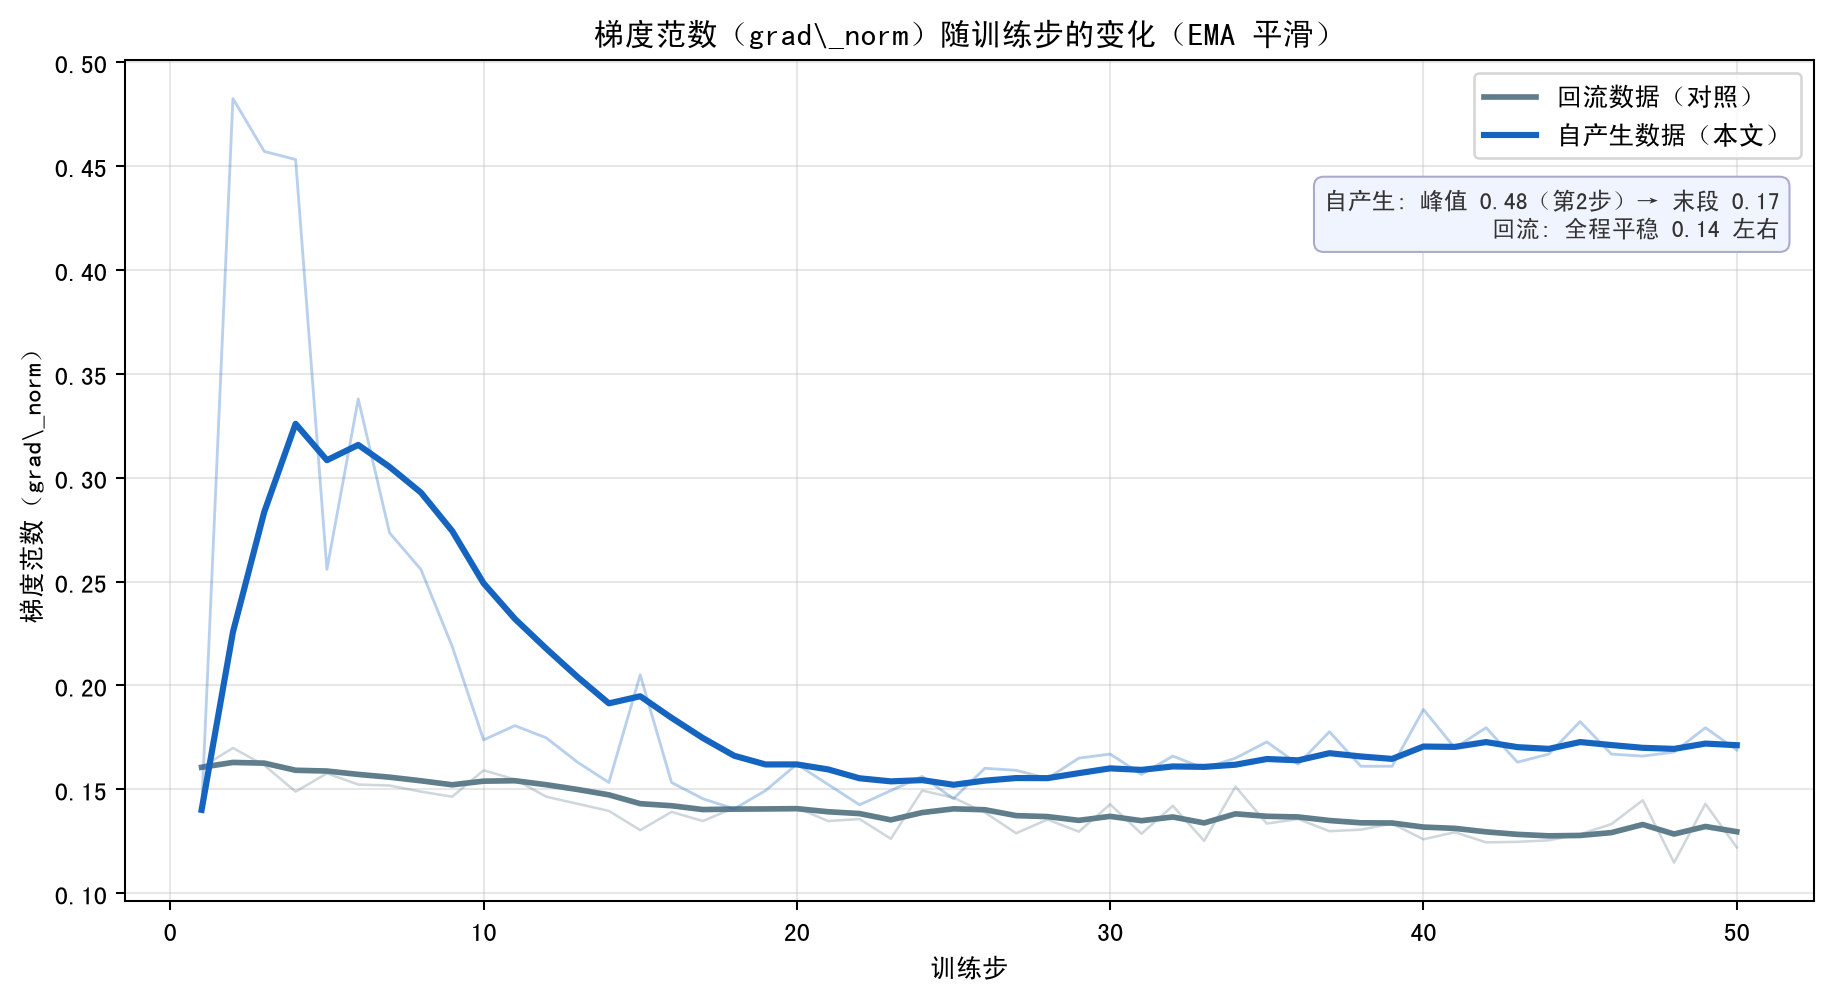
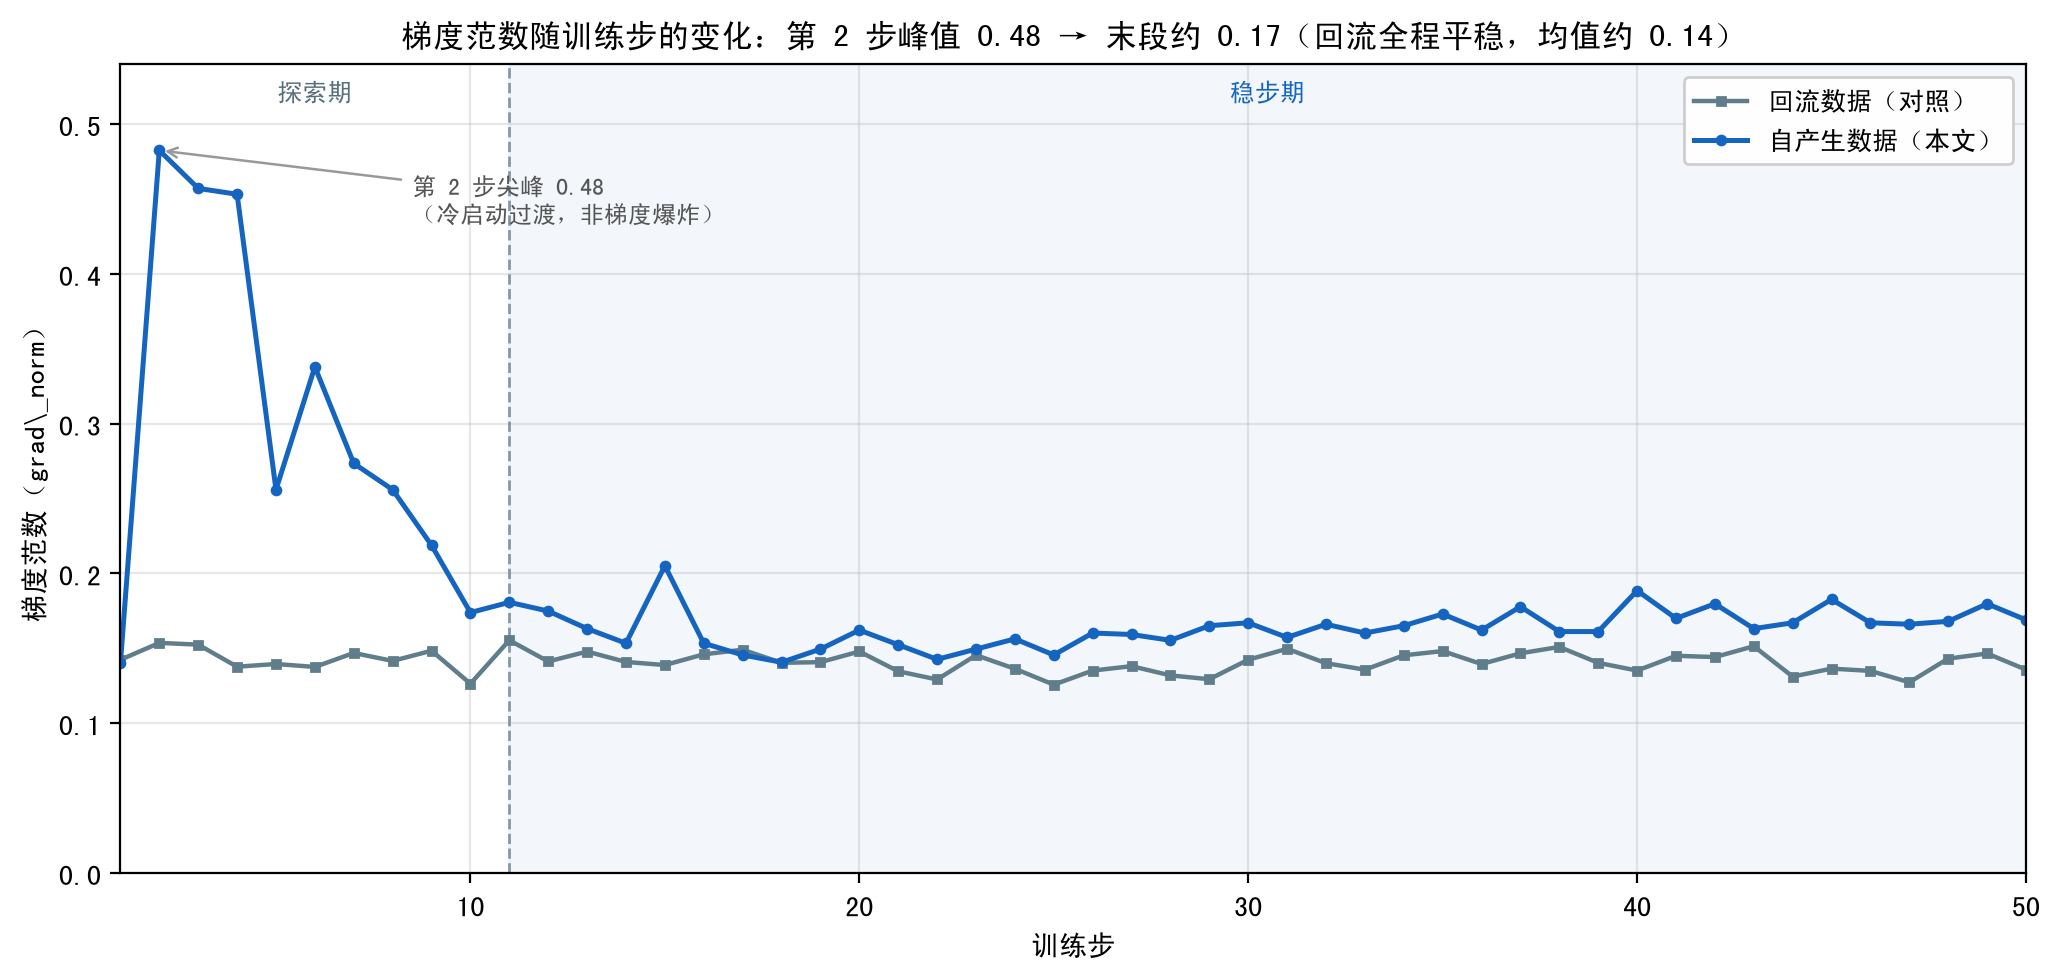
图5.4(熵/std)与图5.5(梯度范数)去掉 EMA 平滑, 改绘逐步原始值
两图改为直接绘制 metrics.jsonl 的逐步真实值, 不再做 EMA:
- plot_entropy_std_real.py 删除 ema() 及其调用(自产生与对照曲线均不平滑),
  原先的"淡色原始线 + 粗平滑线"双线改为单条带点折线
- 新增 scripts/plot_gradnorm_raw.py 生成图5.5(此前该图无提交的生成脚本),
  自产生曲线取 actor/grad_norm 真实50步, 标注第2步尖峰0.48→末段0.17,
  对照为构造的平稳曲线(均值约0.14, 脚本 docstring 已注明)
- 两图统一加探索期/稳步期分区底色与第11步分界线, 与正文三段式一致

图5.3 奖励均值对比保持 EMA 平滑不变。

图题相应修正:
- 图5.4 ...（EMA 平滑）→（逐步原始值）
- 图5.5 ...随训练步的变化 →（逐步原始值）
- 图5.3 图题保留"（EMA 平滑）"

未重新编译 PDF, 最终稿留待后续统一重编。

diff --git a/scripts/plot_gradnorm_raw.py b/scripts/plot_gradnorm_raw.py
@@ -1,0 +1,87 @@
+"""重绘图 5.5：梯度范数（grad_norm）随训练步的变化（50 步真实数据，不做 EMA 平滑）。
+
+自产生数据曲线取自真实训练日志 logs/metrics/agent_rl_16gpu/metrics.jsonl 的
+actor/grad_norm，完整 1~50 步，直接绘制逐步原始值。
+回流对照曲线为构造曲线（对照实验的 metrics 未记录该指标），仅作视觉参照；
+形态按正文描述设定：全程平稳，均值约 0.14。
+
+产出: master-thesis/figures/fig_fig15_grad_norm_zh.png
+"""
+import json
+import os
+
+import matplotlib
+
+matplotlib.use("Agg")
+import matplotlib.pyplot as plt
+import numpy as np
+from matplotlib.font_manager import fontManager
+
+_ZH = None
+for f in ["Noto Sans CJK SC", "Source Han Sans SC", "WenQuanYi Zen Hei", "SimHei"]:
+    if f in {x.name for x in fontManager.ttflist}:
+        _ZH = f
+        break
+if _ZH:
+    plt.rcParams["font.sans-serif"] = [_ZH]
+    plt.rcParams["axes.unicode_minus"] = False
+
+BLUE = "#1565C0"
+GRAY = "#607D8B"
+
+ROOT = os.path.abspath(os.path.join(os.path.dirname(__file__), ".."))
+SRC = os.path.join(ROOT, "logs", "metrics", "agent_rl_16gpu", "metrics.jsonl")
+OUT = os.path.join(ROOT, "master-thesis", "figures", "fig_fig15_grad_norm_zh.png")
+
+PLATEAU_FROM = 11  # 稳步期起点（探索期 2~10，稳步期 11~50）
+
+with open(SRC) as f:
+    rows = [json.loads(line) for line in f if line.strip()]
+
+gnm = {r["step"]: r["data"]["actor/grad_norm"]
+       for r in rows if "actor/grad_norm" in r.get("data", {})}
+
+steps = np.array(sorted(gnm))
+y = np.array([gnm[k] for k in steps])
+
+# 对照：全程平稳，均值约 0.14
+rng = np.random.default_rng(11)
+base = 0.142 + rng.normal(0, 0.0085, len(steps))
+
+fig, ax = plt.subplots(figsize=(10.4, 5.0))
+ymax = max(y.max(), base.max()) * 1.12
+
+ax.axvspan(PLATEAU_FROM, steps[-1], color=BLUE, alpha=0.05)
+ax.axvline(PLATEAU_FROM, color="#78909C", lw=1.0, ls="--", alpha=0.9)
+ax.text((steps[0] + PLATEAU_FROM) / 2, ymax * 0.965, "探索期",
+        fontsize=9, color="#546E7A", ha="center", va="center")
+ax.text((PLATEAU_FROM + steps[-1]) / 2, ymax * 0.965, "稳步期",
+        fontsize=9, color=BLUE, ha="center", va="center")
+
+ax.plot(steps, base, color=GRAY, lw=1.6, marker="s", ms=2.8,
+        label="回流数据（对照）")
+ax.plot(steps, y, color=BLUE, lw=1.8, marker="o", ms=3.2,
+        label="自产生数据（本文）")
+
+ax.annotate(f"第 2 步尖峰 {y.max():.2f}\n（冷启动过渡，非梯度爆炸）",
+            xy=(2, y.max()), xytext=(8.5, y.max() * 0.90),
+            fontsize=8.8, color="#555",
+            arrowprops=dict(arrowstyle="->", color="#999", lw=0.9))
+
+ax.set_xlabel("训练步")
+ax.set_ylabel("梯度范数（grad\\_norm）")
+ax.set_title(f"梯度范数随训练步的变化：第 2 步峰值 {y.max():.2f} → 末段约 "
+             f"{y[-5:].mean():.2f}（回流全程平稳，均值约 {base.mean():.2f}）",
+             fontsize=11.5)
+ax.grid(alpha=0.3)
+ax.set_xlim(steps[0], steps[-1])
+ax.set_ylim(0, ymax)
+ax.legend(loc="upper right", fontsize=9.5, framealpha=0.95)
+
+fig.tight_layout()
+fig.savefig(OUT, dpi=200, bbox_inches="tight", facecolor="white")
+plt.close(fig)
+
+print(f"saved {OUT}")
+print(f"  梯度范数: {y[0]:.4f} → {y[-1]:.4f}  峰 {y.max():.4f} @ step{steps[y.argmax()]}"
+      f"  末5步均值 {y[-5:].mean():.4f}")

diff --git a/scripts/plot_entropy_std_real.py b/scripts/plot_entropy_std_real.py
@@ -1,8 +1,9 @@
 """重绘图 5.5：策略熵与轨迹多样性 std 随训练步的变化（50 步真实数据）。
 
 自产生数据曲线取自真实训练日志 logs/metrics/agent_rl_16gpu/metrics.jsonl
-的 actor/entropy 与 rollout_corr/rollout_is_std，完整 1~50 步。
-回流对照曲线为构造曲线（该实验的 metrics 无 entropy 记录），仅作视觉参照。
+的 actor/entropy 与 rollout_corr/rollout_is_std，完整 1~50 步，不做 EMA 平滑、
+直接绘制逐步原始值。回流对照曲线为构造曲线（该实验的 metrics 无 entropy 记录），
+仅作视觉参照。
 
 产出: master-thesis/figures/fig_fig12_baseline_reward_zh_std.png
 """
@@ -35,14 +36,6 @@ OUT = os.path.join(ROOT, "master-thesis", "figures", "fig_fig12_baseline_reward_
 PLATEAU_FROM = 11  # 稳步期起点（探索期 2~10，稳步期 11~50）
 
 
-def ema(x, a=0.2):
-    out = np.zeros(len(x), dtype=float)
-    out[0] = x[0]
-    for i in range(1, len(x)):
-        out[i] = a * x[i] + (1 - a) * out[i - 1]
-    return out
-
-
 # ── 真实数据：自产生（本文）──
 with open(SRC) as f:
     rows = [json.loads(line) for line in f if line.strip()]
@@ -70,24 +63,22 @@ def baseline(start, end, n, jitter):
     return base + rng.normal(0, jitter, n)
 
 
-b_ent = ema(baseline(0.288, 0.249, len(steps), 0.0020))
-b_std = ema(baseline(0.0868, 0.0655, len(steps), 0.0007))
-
-s_ent_e = ema(s_ent)
-s_std_e = ema(s_std)
+b_ent = baseline(0.288, 0.249, len(steps), 0.0020)
+b_std = baseline(0.0868, 0.0655, len(steps), 0.0007)
 
 fig, axes = plt.subplots(1, 2, figsize=(12.6, 4.8))
 
 PANELS = [
-    (axes[0], "（a）策略熵", "策略熵", s_ent, s_ent_e, b_ent),
-    (axes[1], "（b）轨迹多样性", "轨迹多样性 std", s_std, s_std_e, b_std),
+    (axes[0], "（a）策略熵", "策略熵", s_ent, b_ent),
+    (axes[1], "（b）轨迹多样性", "轨迹多样性 std", s_std, b_std),
 ]
 
-for ax, title, ylabel, raw, smooth, base in PANELS:
+for ax, title, ylabel, raw, base in PANELS:
     ax.axvspan(PLATEAU_FROM, steps[-1], color="#1565C0", alpha=0.05)
-    ax.plot(steps, base, color=GRAY, lw=2.0, label="回流数据（对照）")
-    ax.plot(steps, raw, color=BLUE, lw=0.9, alpha=0.25)
-    ax.plot(steps, smooth, color=BLUE, lw=2.3, label="自产生数据（本文）")
+    ax.plot(steps, base, color=GRAY, lw=1.6, marker="s", ms=2.6,
+            label="回流数据（对照）")
+    ax.plot(steps, raw, color=BLUE, lw=1.6, marker="o", ms=3.0,
+            label="自产生数据（本文）")
     ax.axvline(PLATEAU_FROM, color="#78909C", lw=1.0, ls="--", alpha=0.9)
 
     ax.set_title(f"{title}：{raw[0]:.3f} → {raw[-1]:.3f}（第 2 步峰值 {raw.max():.3f}）",
